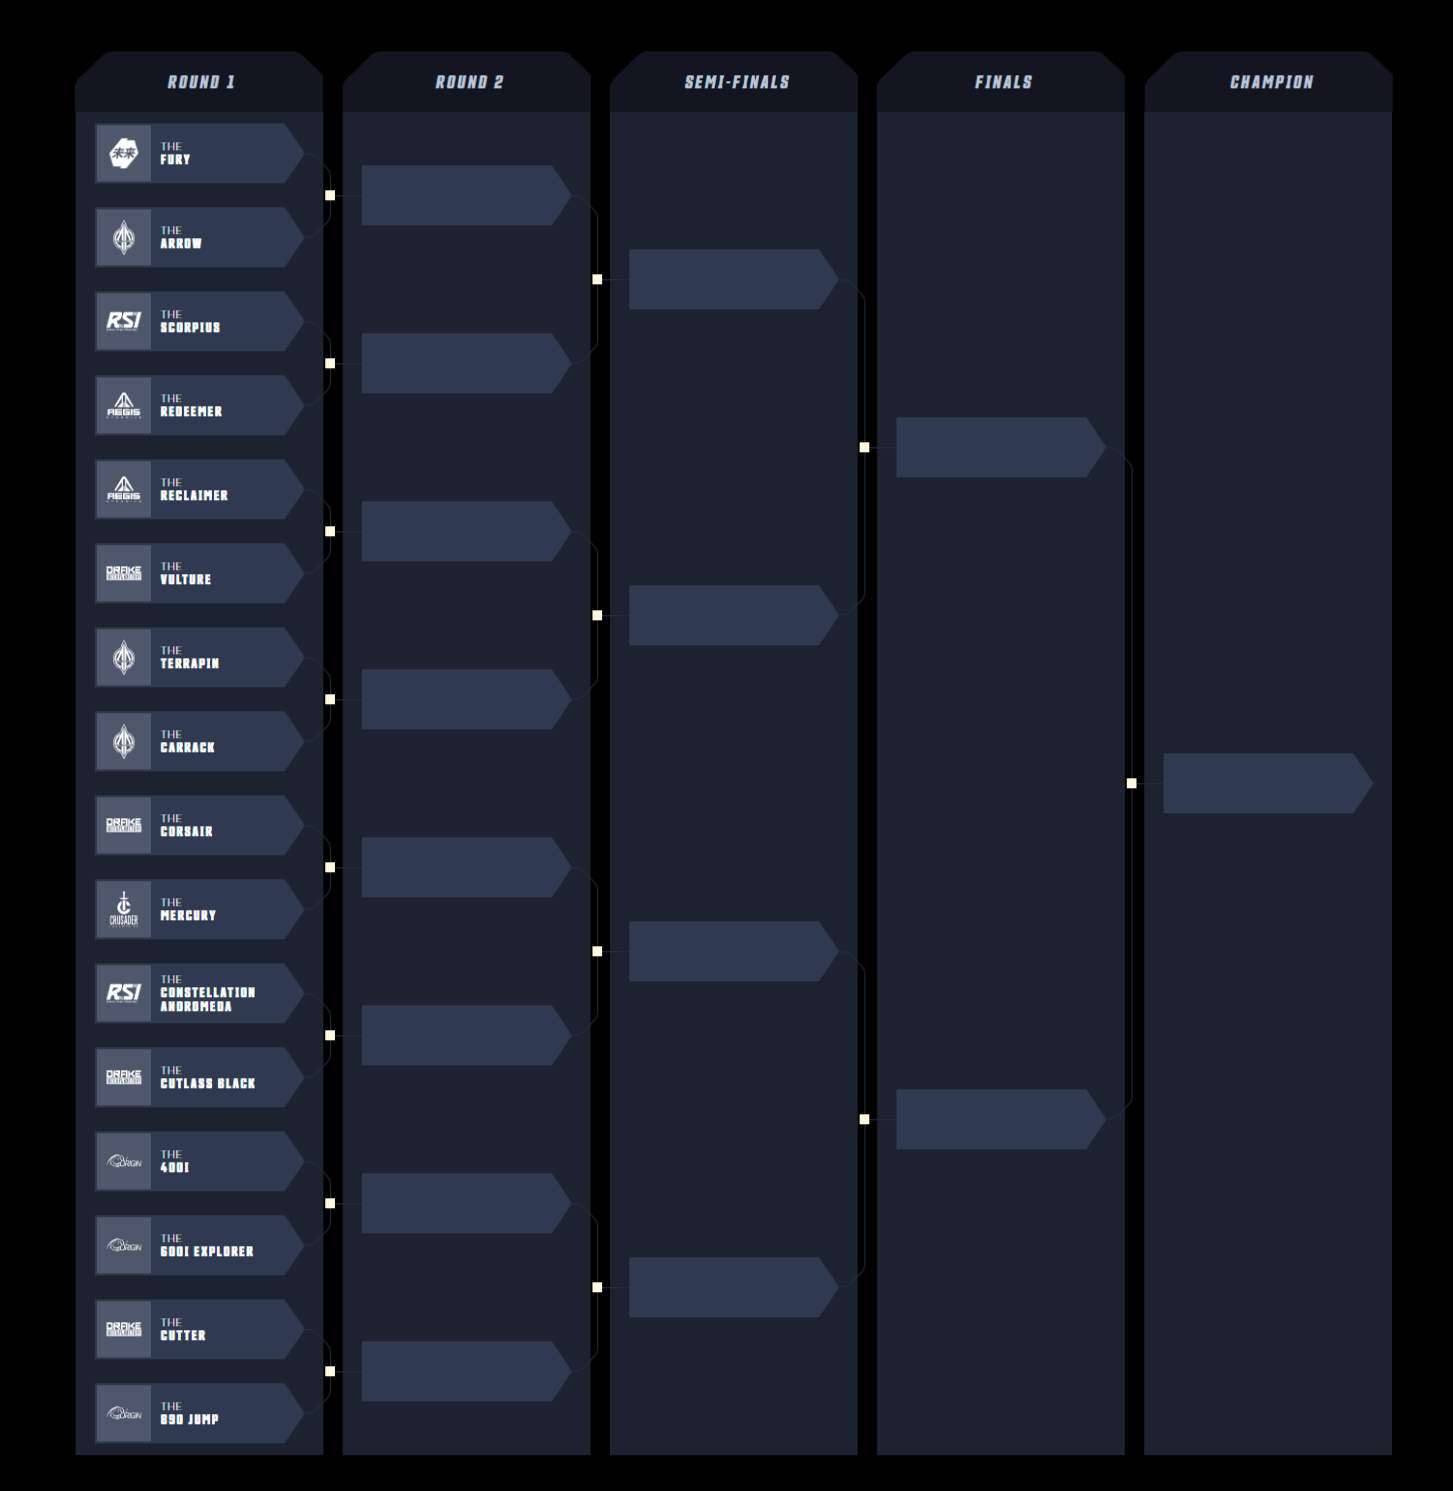
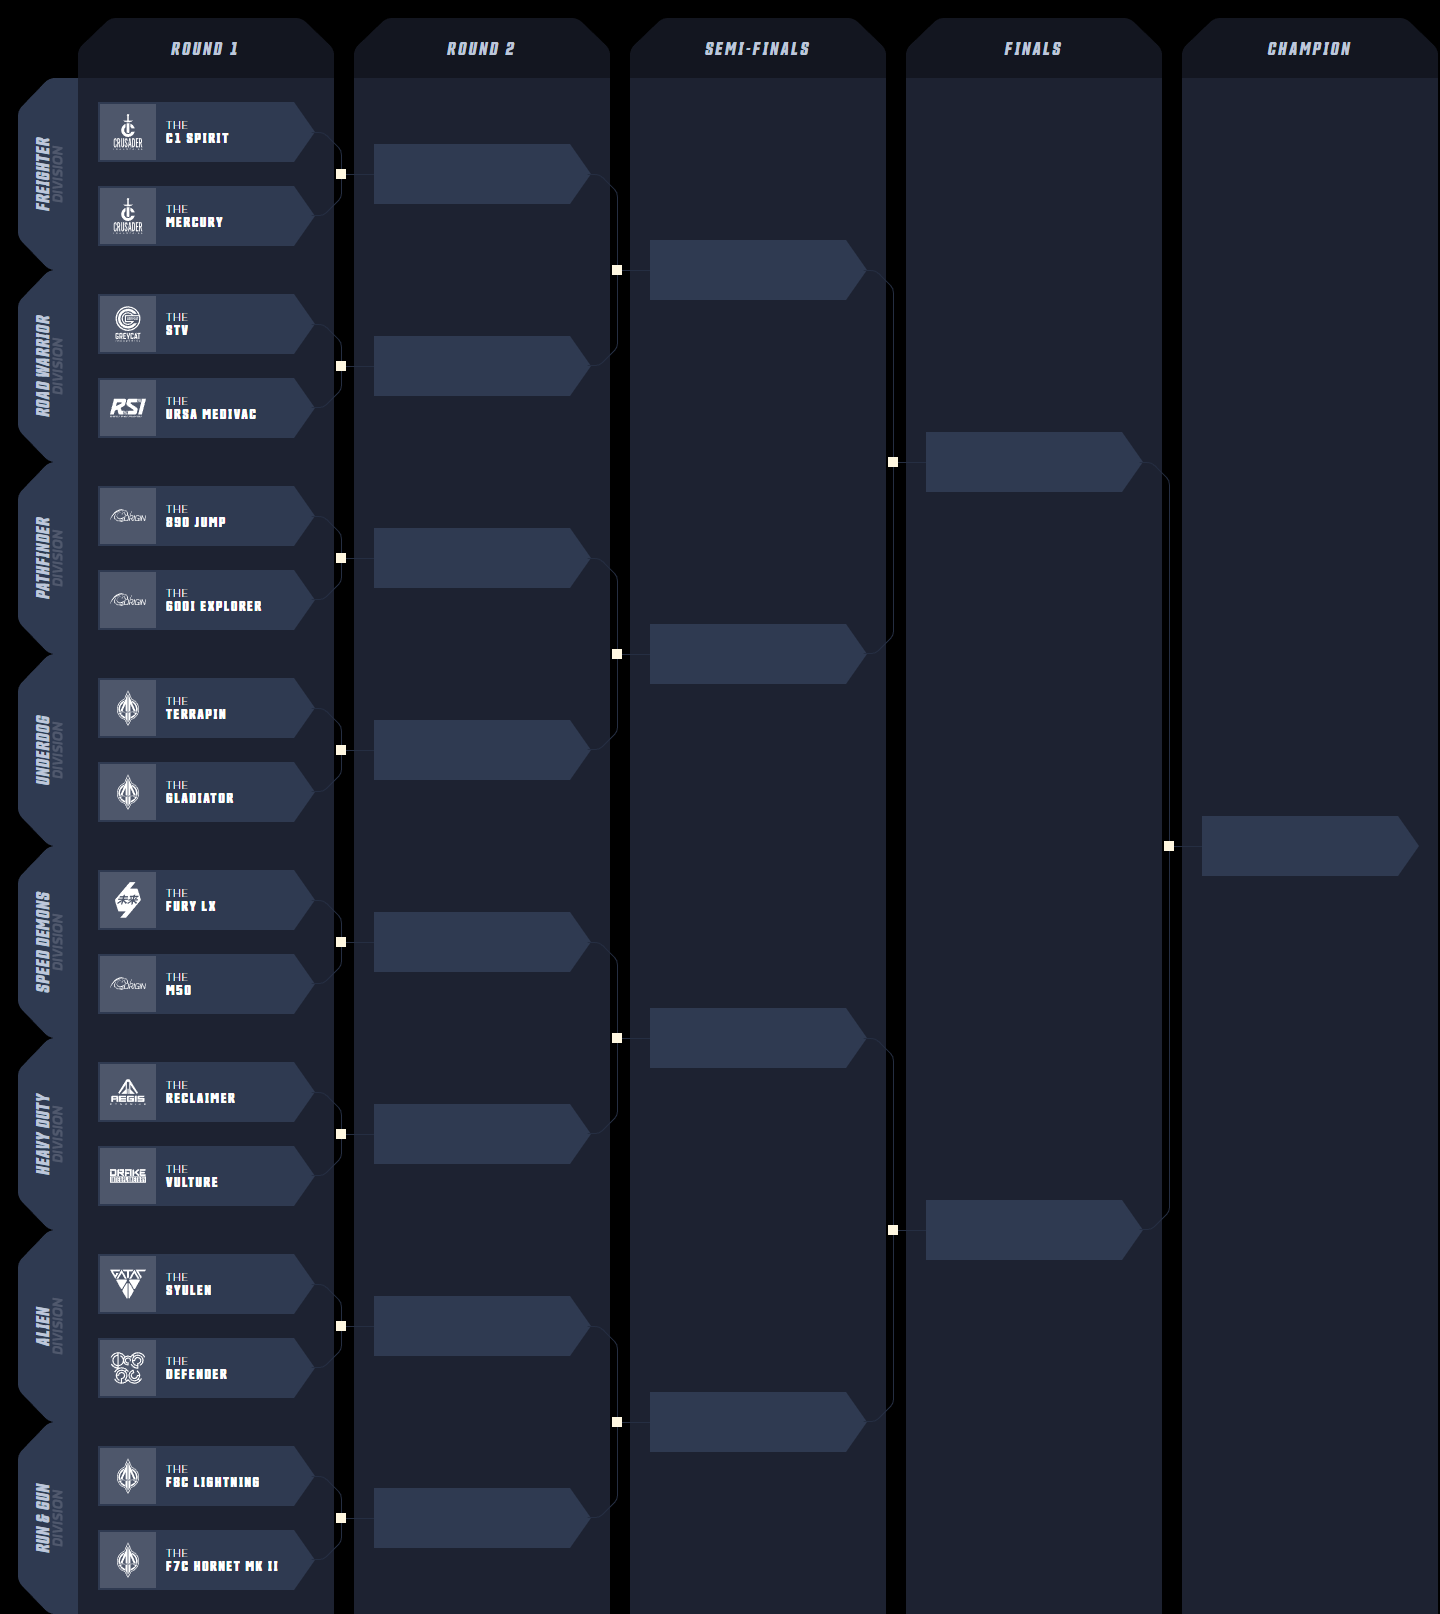
push predictor

diff --git a/starcitizen/ship-showdown-2954/index.html b/starcitizen/ship-showdown-2954/index.html
@@ -5,43 +5,43 @@
 </head>
 <script text="javascript">
   var ships = [
-    "Fury",
-    "Arrow",
-    "Scorpius",
-    "Redeemer",
+    "C1 Spirit",
+    "Mercury",
+    "STV",
+    "Ursa Medivac",
+    "890 Jump",
+    "600i Explorer",
+    "Terrapin",
+    "Gladiator",
+    "Fury LX",
+    "M50",
     "Reclaimer",
     "Vulture",
-    "Terrapin",
-    "Carrack",
-    "Corsair",
-    "Mercury Star Runner",
-    "Constellation Andromeda",
-    "Cutlass Black",
-    "400i",
-    "600i Explorer",
-    "Cutter",
-    "890 Jump"
+    "Syulen",
+    "Defender",
+    "F8C Lightning",
+    "F7C Hornet MK II",
   ];
 </script>
 <!-- draw function uses these to source the image data -->
 <div id="imgs-holder" hidden>
   <img id="img-template" src="template_big.png">
-  <img id="img-0" src="fury.png">
-  <img id="img-1" src="arrow.png">
-  <img id="img-2" src="scorpius.png">
-  <img id="img-3" src="redeemer.png">
-  <img id="img-4" src="reclaimer.png">
-  <img id="img-5" src="vulture.png">
+  <img id="img-0" src="c1spirit.png">
+  <img id="img-1" src="mercury.png">
+  <img id="img-2" src="stv.png">
+  <img id="img-3" src="ursa_medivac.png">
+  <img id="img-4" src="890_jump.png">
+  <img id="img-5" src="600i_explorer.png">
   <img id="img-6" src="terrapin.png">
-  <img id="img-7" src="carrack.png">
-  <img id="img-8" src="corsair.png">
-  <img id="img-9" src="mercury.png">
-  <img id="img-10" src="constellation_andromeda.png">
-  <img id="img-11" src="cutlass_black.png">
-  <img id="img-12" src="400i.png">
-  <img id="img-13" src="600i_explorer.png">
-  <img id="img-14" src="cutter.png">
-  <img id="img-15" src="890_jump.png">
+  <img id="img-7" src="gladiator.png">
+  <img id="img-8" src="fury_lx.png">
+  <img id="img-9" src="m50.png">
+  <img id="img-10" src="reclaimer.png">
+  <img id="img-11" src="vulture.png">
+  <img id="img-12" src="syulen.png">
+  <img id="img-13" src="defender.png">
+  <img id="img-14" src="f8c.png">
+  <img id="img-15" src="f7c.png">
 </div>
 <script text="javascript">
   function layout_round1() {
@@ -563,31 +563,32 @@
   }
 
   function draw() {
-    // 318 - 354
-    // 136 - 166
+    // Next year it seems the coordinates are halfed up
+    // so we can probably compute these based on start and end
+    // like (r0.y + r1.y ) / 2 = s0.y
     var coordinates = {
-      r0: { x: 354, y: 166 },
-      r1: { x: 354, y: 332 },
-      r2: { x: 354, y: 503 },
-      r3: { x: 354, y: 670 },
-      r4: { x: 354, y: 836 },
-      r5: { x: 354, y: 1006 },
-      r6: { x: 354, y: 1174 },
-      r7: { x: 354, y: 1342 },
-      s0: { x: 620, y: 248 },
-      s1: { x: 620, y: 585 },
-      s2: { x: 620, y: 921 },
-      s3: { x: 620, y: 1257 },
-      f0: { x: 888, y: 417 },
-      f1: { x: 888, y: 1088 },
-      w0: { x: 1155, y: 753 }
+      r0: { x: 366, y: 144 },
+      r1: { x: 366, y: 336 },
+      r2: { x: 366, y: 528 },
+      r3: { x: 366, y: 720 },
+      r4: { x: 366, y: 912 },
+      r5: { x: 366, y: 1104 },
+      r6: { x: 366, y: 1296 },
+      r7: { x: 366, y: 1488 },
+      s0: { x: 648, y: 240 },
+      s1: { x: 648, y: 624 },
+      s2: { x: 644, y: 1008 },
+      s3: { x: 648, y: 1392 },
+      f0: { x: 918, y: 432 },
+      f1: { x: 918, y: 1200 },
+      w0: { x: 1194, y: 816 }
     }
 
     const canvas = document.createElement("canvas");
     canvas.id = "canvas";
-    // 1454 x 1492 og size
+    // set og size of big template here
     canvas.width = 1440;
-    canvas.height = 1460;
+    canvas.height = 1614;
     var imgHolder = document.getElementById('img-container')
     // remove previously generated images
     while (imgHolder.firstChild) {
@@ -619,6 +620,11 @@
     drawResult(ctx, 'r4-m1', coordinates.f1);
 
     drawResult(ctx, 'r5-m0', coordinates.w0);
+
+    ctx.font = "18px serif";
+    ctx.fillStyle = "white";
+    ctx.fillText("Generate yours at", 1190, 1560);
+    ctx.fillText("anemortalkid.github.io/showdown", 1190, 1580);
   }
 </script>
 
